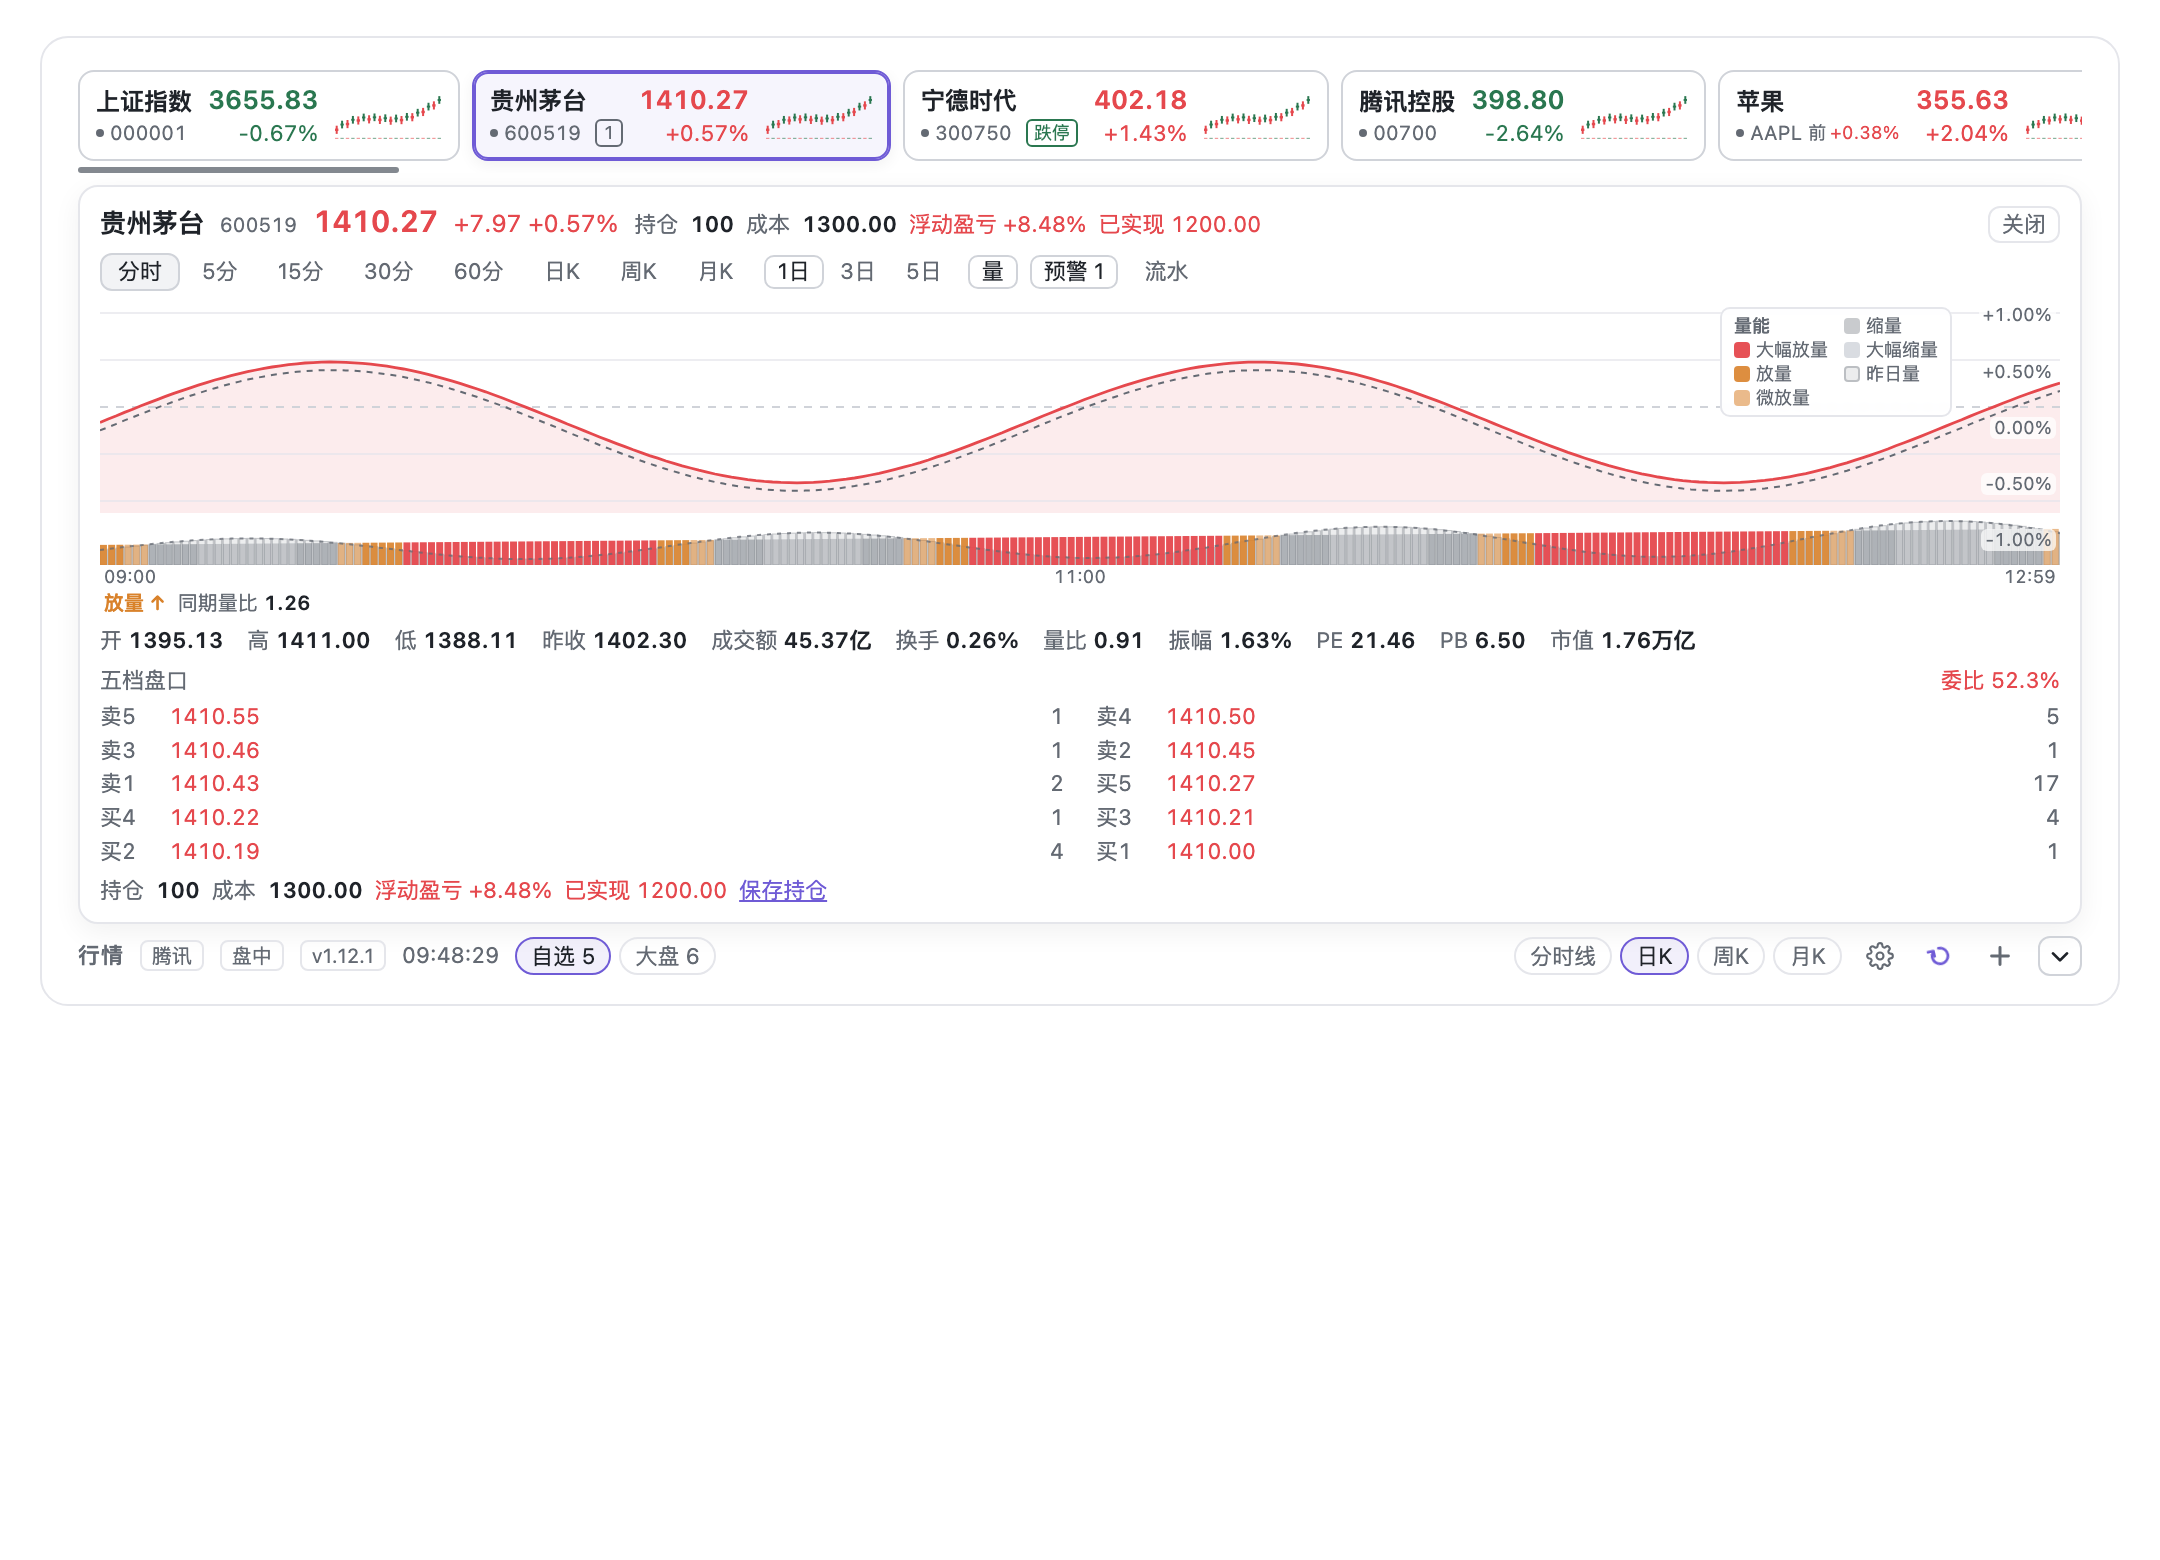
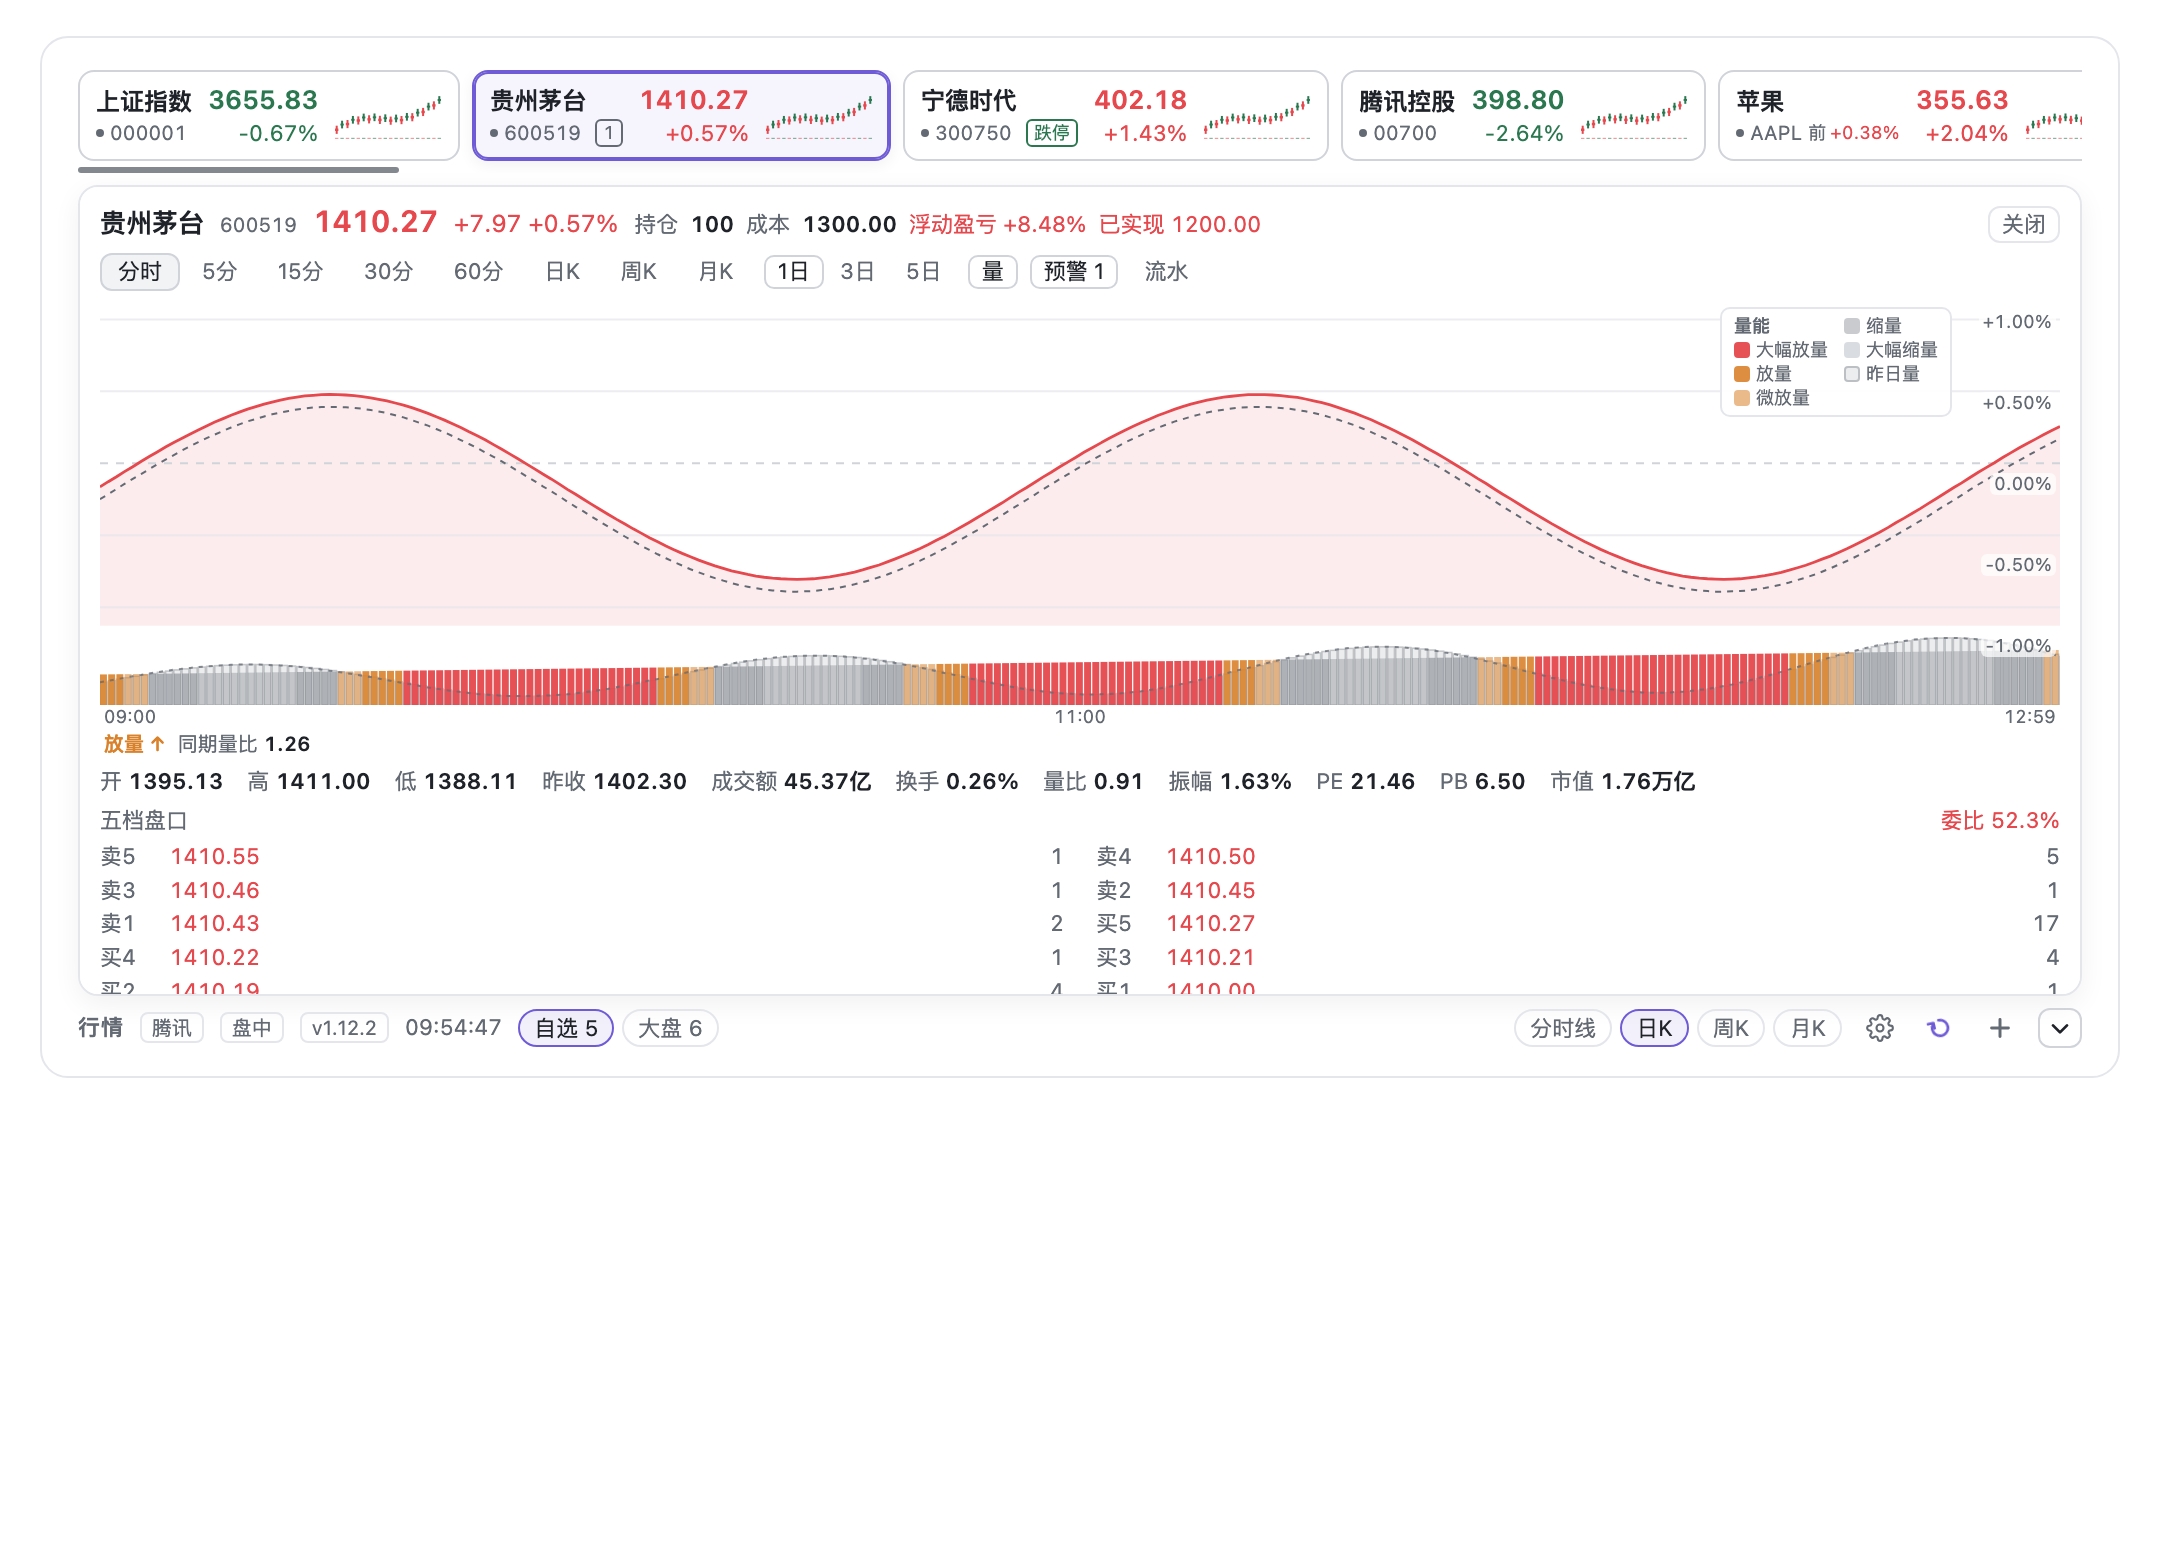
fix(charts): preserve the big chart's aspect ratio (1.12.2)
The block charts kept a 640×164 viewBox but were stretched to the full panel
width at a fixed 164px height with preserveAspectRatio="none". On a 1500px
panel that stretched the picture ~2.3x horizontally, so the trend looked
squashed even though the axis numbers were right.

The chart now preserves its viewBox ratio with height:auto and aspect-ratio,
is capped at 1040px and centred: a 1040×266 K-line on a wide panel instead of
1500×164. Intraday uses the same treatment (640×132).

- Tests: 86.

Local commit only; not pushed.

diff --git a/client.js b/client.js
@@ -16,7 +16,7 @@ window.__ModuleLoader__.load({
     const { useCallback, useEffect, useMemo, useRef, useState } = React
 
     const NS = 'stockTicker'
-    const BUILD = 'v1.12.1'
+    const BUILD = 'v1.12.2'
     const ENDPOINT = '/dsh-stock-ticker'
     const COLLAPSE_KEY = 'dsh-stock-ticker:collapsed'
     const STYLE_ID = 'stock-ticker'
@@ -1491,7 +1491,9 @@ window.__ModuleLoader__.load({
         const ratio = Math.min(1, Math.max(0, (event.clientX - rect.left) / rect.width))
         return Math.min(rows.length - 1, Math.max(0, Math.floor(ratio * rows.length)))
       }
-      const chartStyle = block ? { width: '100%', height: `${height}px` } : { width: `${width}px`, height: `${height}px` }
+      const chartStyle = block
+        ? { width: '100%', height: 'auto', aspectRatio: `${width} / ${height}`, display: 'block' }
+        : { width: `${width}px`, height: `${height}px` }
       const empty = (extra) =>
         h('div', { className: 'dshst-chartEmpty', style: chartStyle, title: props.emptyLabel ?? '' }, extra)
 
@@ -1914,7 +1916,7 @@ window.__ModuleLoader__.load({
         : ''
       return h(
         'div',
-        { className: 'dshst-chartWrap' },
+        { className: 'dshst-chartWrap', style: { maxWidth: '1040px', margin: '0 auto' } },
         svg,
         active
           ? h(
@@ -2666,7 +2668,7 @@ window.__ModuleLoader__.load({
         activeSignal === 'up' ? t('volumeExpand') : activeSignal === 'down' ? t('volumeShrink') : t('volumeFlat')
       return h(
         'div',
-        { className: 'dshst-chartWrap' },
+        { className: 'dshst-chartWrap', style: { maxWidth: '1040px', margin: '0 auto' } },
         h(
           'svg',
           {
@@ -2675,7 +2677,13 @@ window.__ModuleLoader__.load({
             preserveAspectRatio: 'none',
             role: 'img',
             'aria-label': props.label ?? '',
-            style: { width: '100%', height: `${height}px`, cursor: 'crosshair' },
+            style: {
+              width: '100%',
+              height: 'auto',
+              aspectRatio: `${width} / ${height}`,
+              display: 'block',
+              cursor: 'crosshair',
+            },
             onMouseDown: (event) => {
               const index = indexAt(event)
               if (index === null) return

diff --git a/CHANGELOG.md b/CHANGELOG.md
@@ -629,3 +629,15 @@ Settings discoverability and the options the strip was missing.
   wicks, five price labels and matching five-division grid lines, so the trend
   reads at a glance instead of being squeezed into a 128px box.
 - 86 tests.
+
+## 1.12.2 — 2026-11-14
+
+- Fixed the real “squashed” look: the big chart SVG kept a 640×164 viewBox
+  but was stretched to the full panel width with a fixed 164px height
+  (`preserveAspectRatio="none"`), so a 1500px panel stretched it ~2.3×
+  horizontally and the trend looked flat. The chart now keeps its aspect ratio
+  (`height: auto`, `aspect-ratio: 640 / 164` for K, `640 / 132` for intraday)
+  and is capped at 1040px and centred. On a wide panel the K-line chart is about
+  1040×266 instead of 1500×164; the axis numbers were correct, the picture was
+  distorted.
+- Tests: 86.

diff --git a/README.md b/README.md
@@ -2,7 +2,7 @@
 
 **中文** · [English](README.en.md)
 
-![version](https://img.shields.io/badge/version-1.12.1-blue)
+![version](https://img.shields.io/badge/version-1.12.2-blue)
 ![license](https://img.shields.io/badge/license-MIT-green)
 ![dsh](https://img.shields.io/badge/DSH-0.2.x-6f5bd6)
 ![data](https://img.shields.io/badge/data-Tencent%20%7C%20Sina%20%7C%20Eastmoney-orange)

diff --git a/README.en.md b/README.en.md
@@ -2,7 +2,7 @@
 
 [中文](README.md) · **English**
 
-![version](https://img.shields.io/badge/version-1.12.1-blue)
+![version](https://img.shields.io/badge/version-1.12.2-blue)
 ![license](https://img.shields.io/badge/license-MIT-green)
 ![dsh](https://img.shields.io/badge/DSH-0.2.x-6f5bd6)
 ![data](https://img.shields.io/badge/data-Tencent%20%7C%20Sina%20%7C%20Eastmoney-orange)
